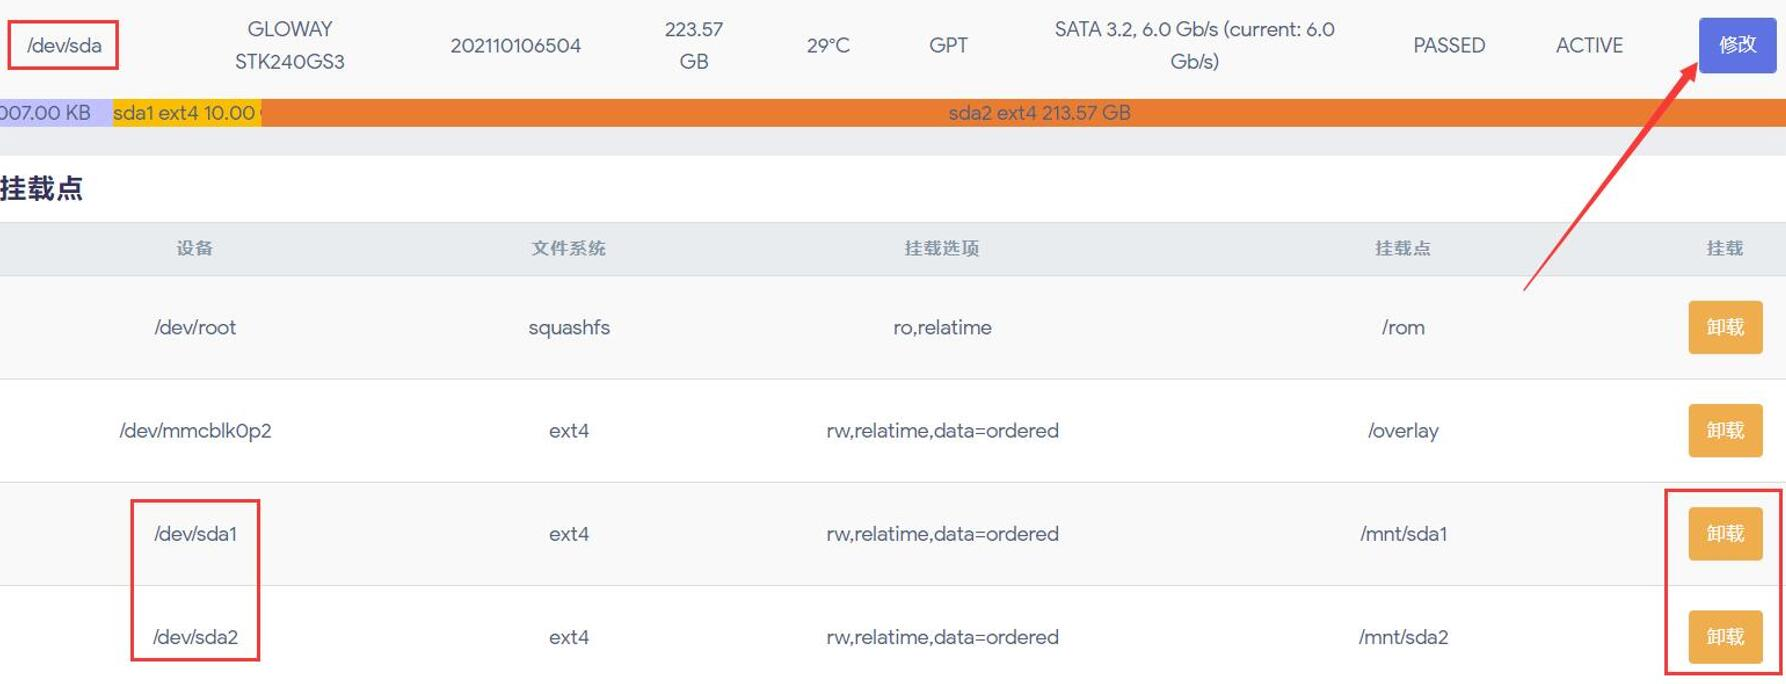
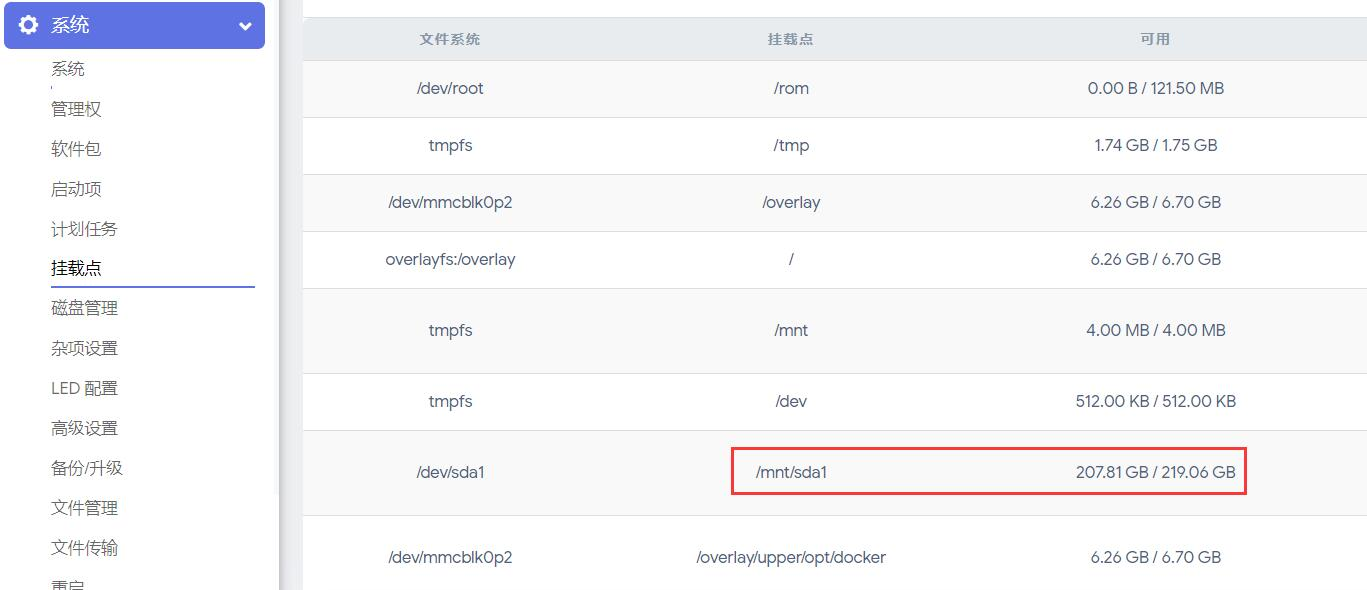
update docker

diff --git a/docs/zh/guide/easepi/advanced.md b/docs/zh/guide/easepi/advanced.md
@@ -5,74 +5,23 @@
 
 * 但是docker项目大小不一，可能有些小伙伴玩的项目体积比较大，6G容量不够， 那么就需要扩容Docker数据分区。
 
-#### 1.硬盘分区:
+#### 开始扩容:
 
-* #### 首先准备一块硬盘，如果有硬盘盒之类的，可以接电脑上划分一个合适的EXT4格式单独分区出来(比如一块240G硬盘，划分10G用来做docker数据，其余用来作常规存储分区)，然后接上ARS2；然后直接翻到下面的“挂载分区”教程。
+* 扩容前，先停用已部署的docker项目，扩容完成后重新部署。若当前无docker项目，直接开始扩容。
 
-* #### 若硬盘已经接上ARS2，直接在ARS2上分区(分区会清掉整个盘，注意备份)，打开“系统——磁盘管理”:
-
-* 查看磁盘分区，然后卸载，然后点击修改；(若是新盘没分区，直接点修改。)
-
-ps:教程演示的sda磁盘有2个分区，全部卸载。
+* 确定自己已经挂载了硬盘，可以看挂载点里的信息。比如我的硬盘路径就是/mnt/sda1。
 
 ![img](./advanced/docker1.jpg)
 
-* 进入磁盘修改界面后，移除分区；(若是新盘没分区，不需要操作。)
+* 然后在/mnt/sda1建立一个docker文件夹，最终路径为：/mnt/sda1/docker。
+
+* 进入Docker——概况——设置，根目录填入/mnt/sda1/docker，然后保存应用。
 
 ![img](./advanced/docker2.jpg)
 
-* 分区之前先改分区表，建议改成GPT。
-
-![img](./advanced/docker3-1.jpg)
-
-* 开始分区：中止扇区填入希望的docker数据分区大小(比如10G，就写+10G)，然后新建；
+* 扩容完成，然后就能畅快的部署Docker项目了。
 
 ![img](./advanced/docker3.jpg)
-
-* 其余分区作为常规存储分区，中止扇区不用动，直接新建；
-
-![img](./advanced/docker4.jpg)
-
-* 将2个分区都格式化为EXT4(若没自动格式化，就点击红色按钮，选择EXT4手动格式化)；
-
-![img](./advanced/docker5.jpg)
-
-* #### 这样就将sda磁盘分为sda1和sda2两个分区，下面进行挂载。
-
-#### 2.挂载分区：
-
-* 打开“系统——挂载点”，点击添加：
-
-![img](./advanced/docker6.jpg)
-
-* 挂载docker数据分区：
-```
-启用挂载点
-UUID选择sda1 10G
-挂载点自定义为：/overlay/upper/opt/docker
-然后保存应用
-```
-![img](./advanced/docker7.jpg)
-
-* 挂载常规存储分区：
-```
-启用挂载点
-UUID选择sda2
-挂载点自定义为：/mnt/sda2  (常规存储分区，都是挂载在/mnt下)
-然后保存应用
-```
-![img](./advanced/docker8.jpg)
-
-* 分区挂载完成，然后重启ARS2以便完整挂载分区。。
-
-![img](./advanced/docker9.jpg)
-
-
-#### 3.扩容完成
-
-![img](./advanced/docker10.jpg)
-
-
 
 
 
@@ -310,9 +259,9 @@ ps：CloudDrive是需要注册登录，没帐号的，请注册。
 
 带Web远程桌面的Docker版Ubuntu，纯英文系统，欢迎各位极客体验。
 
-#### 1.首先准备一块硬盘，然后扩容Docker数据分区。
+#### 1.ARS2接入硬盘，然后扩容Docker数据分区。
 
-* 起码10G起步，Ubuntu镜像很大。[扩容Docker分区教程](https://doc.linkease.com/zh/guide/easepi/advanced.html#扩容docker分区)
+* Ubuntu镜像很大，所以需要扩容docker数据分区。[扩容Docker分区教程](https://doc.linkease.com/zh/guide/easepi/advanced.html#扩容docker分区)
 
 #### 2.应用商店里安装Ubuntu;
 
@@ -346,18 +295,18 @@ docker pull linkease/desktop-ubuntu-standard-arm64:latest
 标准版本解压出来的镜像：desktop-ubuntu-standard-arm64.tar
 全量版本解压出来的镜像：desktop-ubuntu-full-arm64.tar
 ```
-然后把镜像放入ARS2的磁盘，比如/mnt/sda2/下；
+然后把镜像放入ARS2的磁盘下，比如/mnt/sda1/下；
 
 然后终端执行命令导入离线镜像：
 
 ```
 标准版本：
-docker load -i /mnt/sda2/desktop-ubuntu-standard-arm64.tar
+docker load -i /mnt/sda1/desktop-ubuntu-standard-arm64.tar
 ```
 
 ```
 全量版本：
-docker load -i /mnt/sda2/desktop-ubuntu-full-arm64.tar
+docker load -i /mnt/sda1/desktop-ubuntu-full-arm64.tar
 ```
 
 
